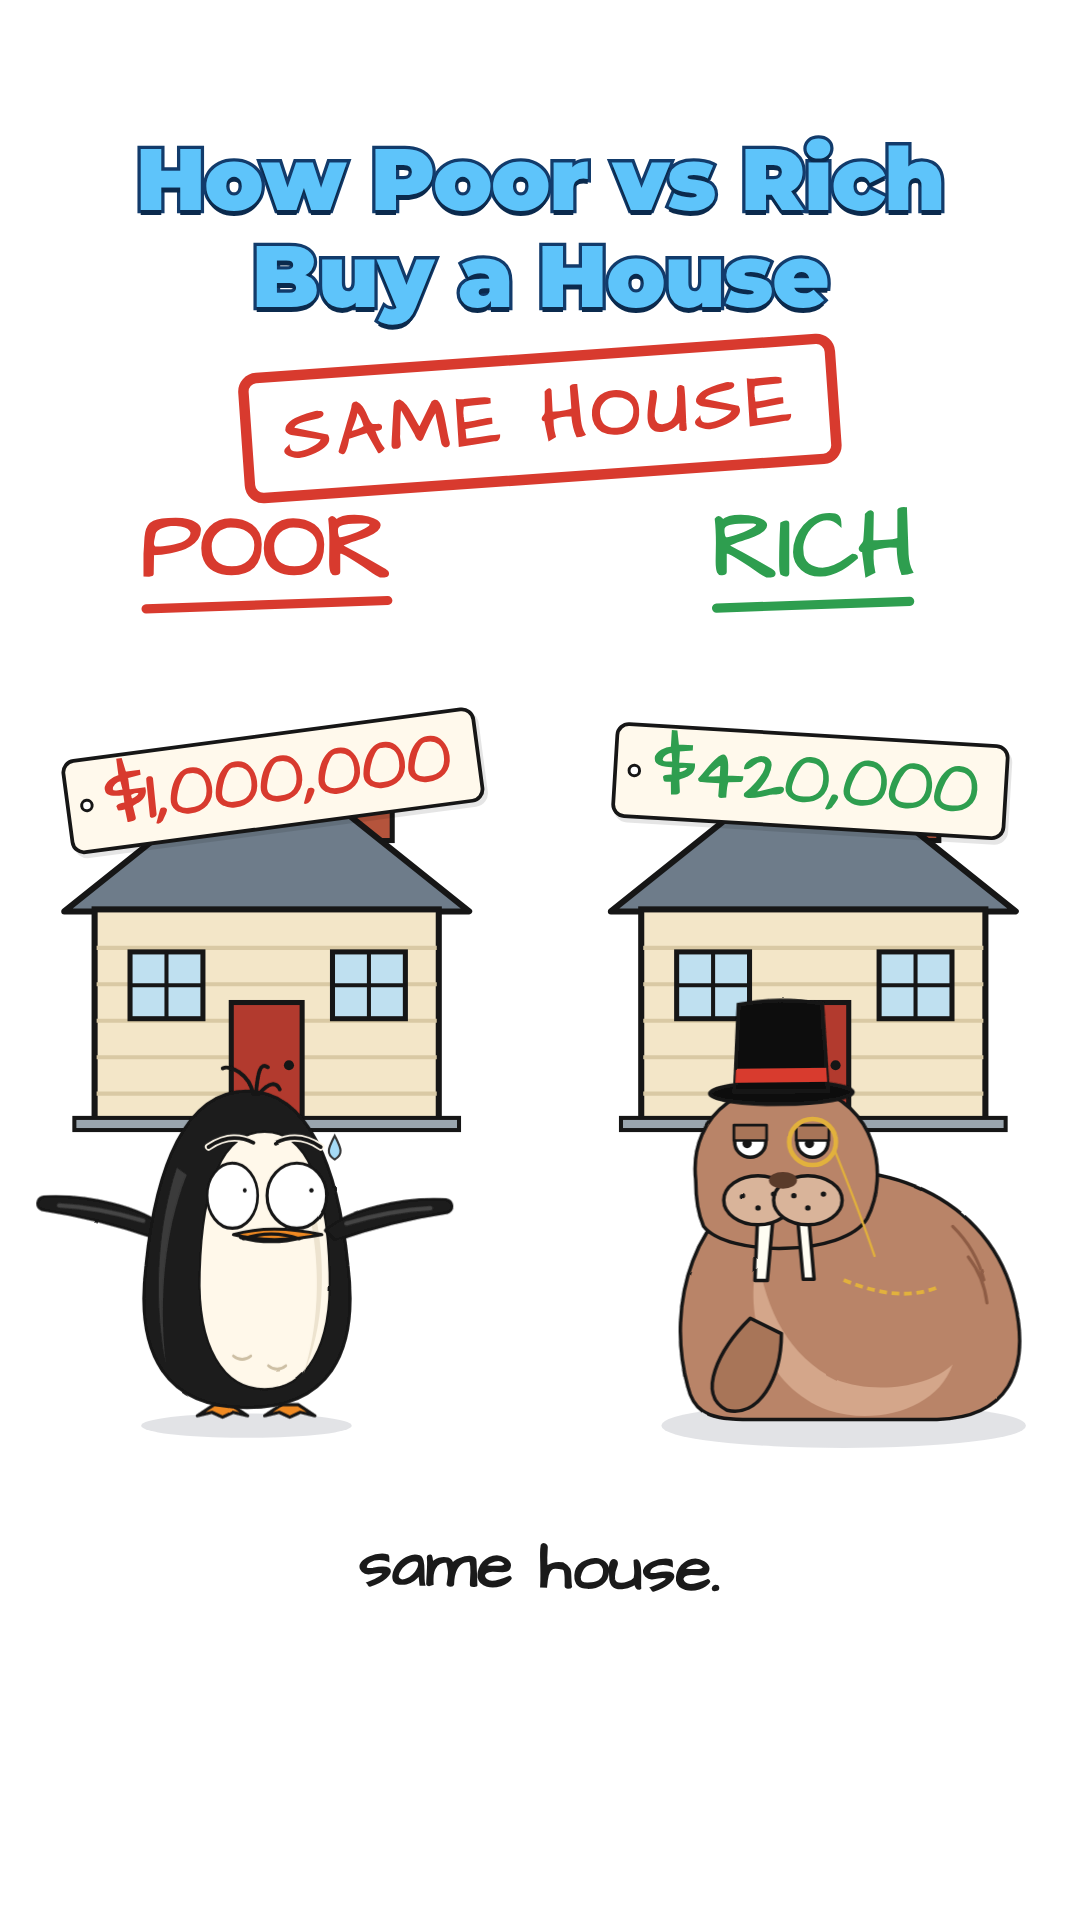
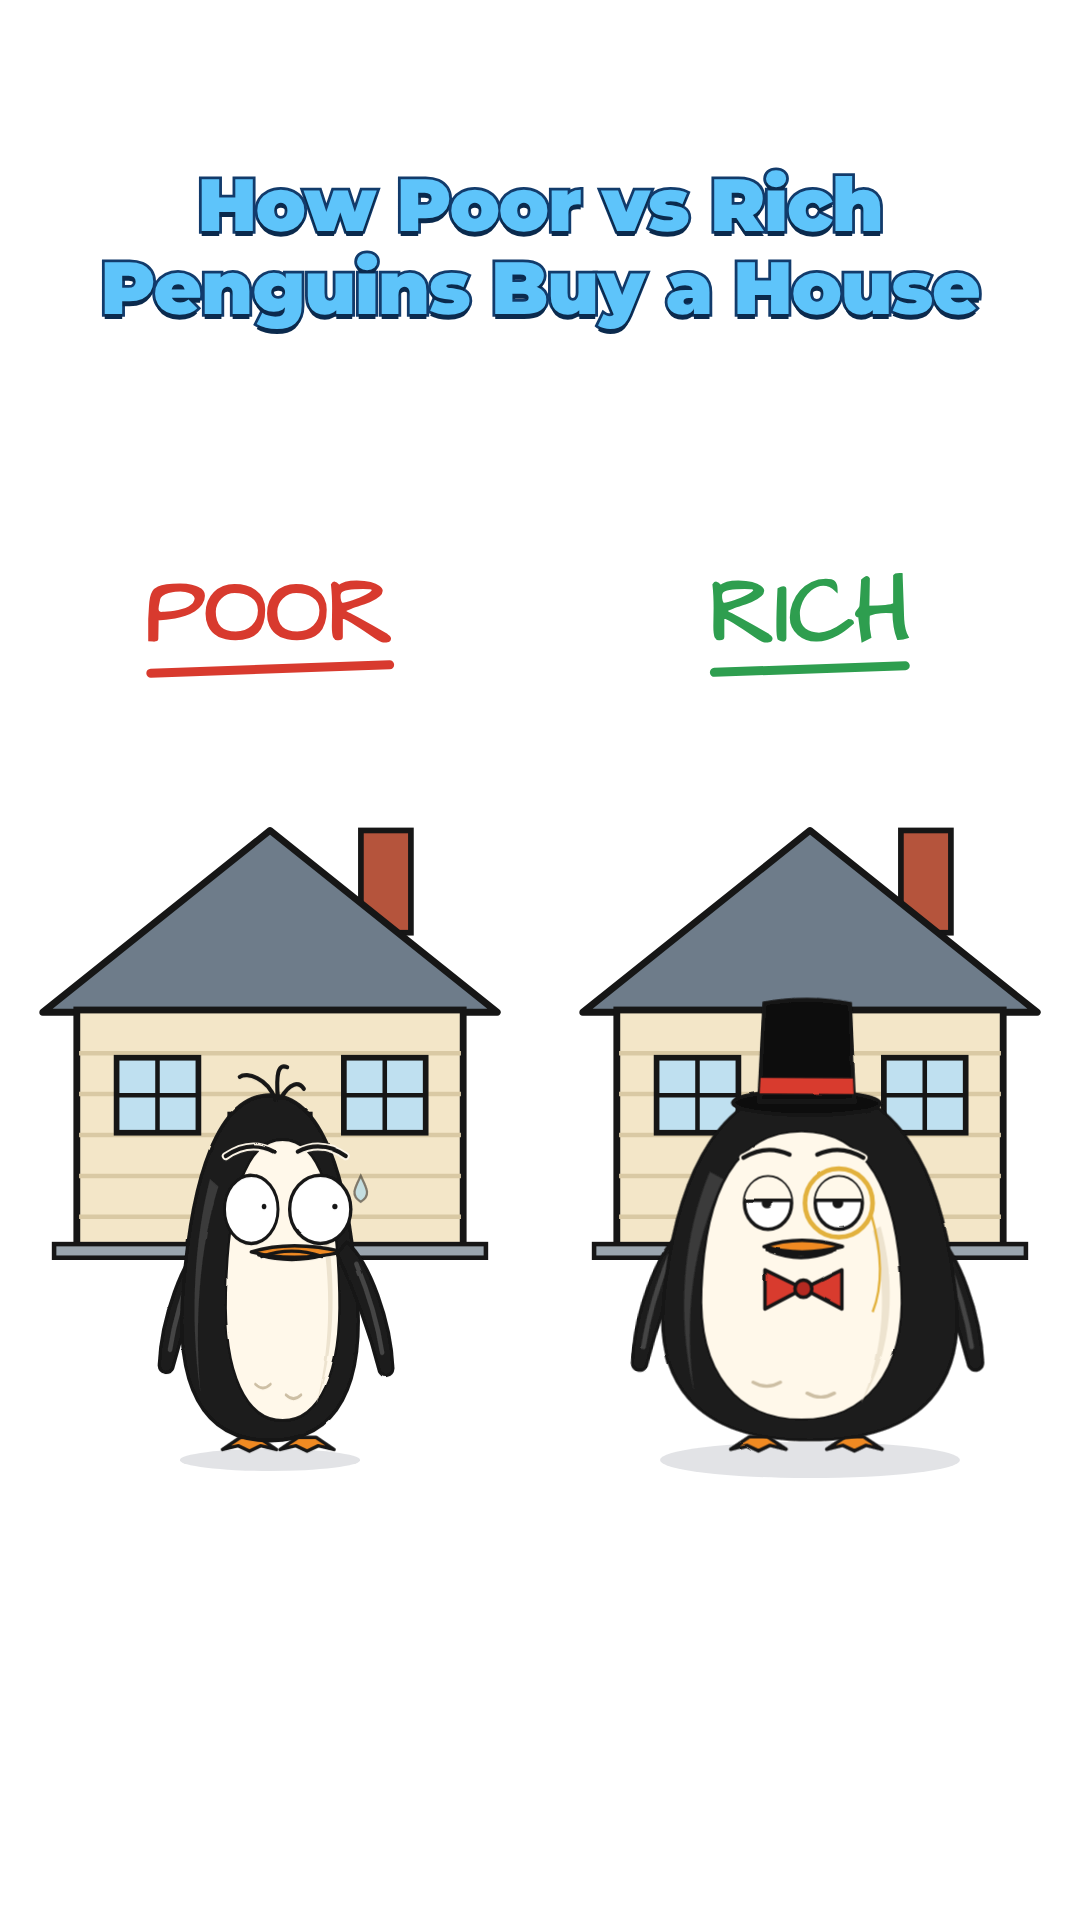
EP6 house: hook = poor vs rich penguin, houses, no prices (user)
Claude-Session: https://claude.ai/code/session_01C4hDa3fLLJhttDpbqhpiyZ

Changed region(s): [[0.0306, 0.0625, 0.9778, 0.7812], [0.3361, 0.8125, 0.6722, 0.8438]]

diff --git a/studio/src/videos/dougHouse.tsx b/studio/src/videos/dougHouse.tsx
@@ -1,17 +1,16 @@
-// EP6 "How Poor vs Rich Buy a House" — hook first (approval), full episode after. Line timings: studio/src/data/doug-house.json (temp until the user's VO).
+// EP6 "How Poor vs Rich Buy a House" — hook first (approval), full episode after. Temp timings in studio/src/data/doug-house.json until the hook line is approved + VO arrives.
 import React from 'react';
 import {AbsoluteFill, useCurrentFrame} from 'remotion';
 import {FPS, Fonts, HandFont} from '../base';
 import {INK, Penguin, onTwos} from '../penguin/rig';
-import {Walrus} from '../penguin/cast';
-import {HookTitle, PriceTag, Stamp} from '../penguin/world';
-import {cutFX} from '../penguin/acting';
-import {Captions, Sfx, beat} from '../penguin/edit';
+import {HookTitle} from '../penguin/world';
+import {Fx, cutFX} from '../penguin/acting';
+import {Sfx, beat} from '../penguin/edit';
 import TIM from '../data/doug-house.json';
 
 const P = (i: number) => TIM[i].start;
 export const DOUG_HOUSE_SECONDS = Math.ceil((TIM[TIM.length - 1].end + 0.8) * 30) / 30;
-const G = 1420;
+const G = 1460;
 const cl = (v: number, a = 0, b = 1) => Math.max(a, Math.min(b, v));
 const ease = (p: number) => 1 - Math.pow(1 - cl(p), 3);
 const RED = '#D83A2E', GREEN = '#2E9E4F';
@@ -29,47 +28,40 @@ const House = ({x, y, w = 440}: {x: number; y: number; w?: number}) =>
   </svg>;
 
 const Label = ({text, x, color}: {text: string; x: number; color: string}) =>
-  <div style={{position: 'absolute', left: x, top: 560, transform: 'translate(-50%,-50%)', textAlign: 'center', fontFamily: 'Architects Daughter', fontWeight: 700, fontSize: 92, color, lineHeight: 1}}>
+  <div style={{position: 'absolute', left: x, top: 620, transform: 'translate(-50%,-50%)', textAlign: 'center', fontFamily: 'Architects Daughter', fontWeight: 700, fontSize: 92, color, lineHeight: 1}}>
     {text}<div style={{height: 9, background: color, borderRadius: 5, marginTop: 6, transform: 'rotate(-2deg)'}} /></div>;
 
-const LARRY = P(1), SAME = P(2);
+const RICHT = P(1);
+// User hook (2026-10-19): poor penguin vs rich penguin, POOR / RICH labels, an American house behind each, NO prices.
 const Hook = ({t}: {t: number}) => {
-  const onLarry = t >= LARRY, same = t >= SAME;
+  const onRich = t >= RICHT;
   return <>
-    <HookTitle lines={['How Poor vs Rich', 'Buy a House']} at={-1} y={240} size={86} />
+    <HookTitle lines={['How Poor vs Rich', 'Penguins Buy a House']} at={-1} y={250} size={74} />
     <Label text="POOR" x={270} color={RED} />
     <Label text="RICH" x={810} color={GREEN} />
-    <House x={270} y={1130} />
-    <House x={810} y={1130} />
-    <PriceTag x={270} y={800} price="$1,000,000" at={0.35} rot={-6} size={0.74} />
-    <PriceTag x={810} y={800} price="$420,000" at={LARRY + 0.9} rot={5} size={0.74} color={GREEN} />
-    <Penguin id="doug" x={250} y={G} h={360} pose={{turn: onLarry ? 0.6 : 0.2, look: [onLarry ? 0.9 : 0, -0.4], brows: onLarry ? 'shock' : 'worried', eyeScale: onLarry ? 1.25 : 1, pupil: onLarry ? 0.45 : 1, sweat: true, flapL: onLarry ? 90 : 10, flapR: onLarry ? 90 : 10, beak: 'frown'}} />
-    <Walrus x={840} y={G} h={400} pose={{lids: 0.45, laugh: onLarry && !same ? 1 : 0, look: -0.5}} />
-    <Stamp text="SAME HOUSE" x={540} y={425} at={SAME} color={RED} size={70} rot={-4} />
+    <House x={270} y={1260} w={500} />
+    <House x={810} y={1260} w={500} />
+    <Penguin id="doug" x={270} y={G} h={390} build="thin" pose={{turn: onRich ? 0.5 : 0, look: [onRich ? 0.9 : 0, -0.2], brows: onRich ? 'shock' : 'worried', eyeScale: onRich ? 1.2 : 1, pupil: onRich ? 0.5 : 1, sweat: true, beak: 'frown'}} />
+    <Penguin id="rich" x={810} y={G} h={400} build="fat" outfit="rich" pose={{turn: -0.2, lids: 0.45, beak: 'smile', brows: 'happy'}} />
   </>;
 };
 
-const SHOTS: {at: number; set: (t: number) => React.ReactNode; fx_?: string}[] = [{at: 0, set: (t) => <Hook t={t} />}];
+const SHOTS: {at: number; set: (t: number) => React.ReactNode; fx_?: Fx}[] = [{at: 0, set: (t) => <Hook t={t} />}];
 
 export const DougHouse = () => {
   const frame = useCurrentFrame(), t = onTwos(frame), tc = frame / FPS;
   const sh = [...SHOTS].reverse().find((x) => tc >= x.at)!;
   // hook: push toward the side named (Doug's $1M house, then Larry's), release on "Same house."
-  const toL = ease((tc - 0.2) / 0.6) * (tc < LARRY ? 1 : 0), toR = ease((tc - LARRY) / 0.5) * (tc < SAME ? 1 : 0);
+  const toL = ease((tc - 0.2) / 0.6) * (tc < RICHT ? 1 : 0), toR = ease((tc - RICHT) / 0.5) * (tc < P(2) ? 1 : 0);
   const s = (1 + 0.08 * (toL + toR)) * beat(tc, TIM), fx = 540 - 150 * toL + 150 * toR, fy = 960 + 30 * (toL + toR);
   return <AbsoluteFill style={{background: '#fff', overflow: 'hidden'}}>
     <Fonts /><HandFont />
     <AbsoluteFill style={cutFX(tc, SHOTS.map((x) => ({at: x.at, fx: x.fx_})))}>
       <AbsoluteFill style={{transform: `translate(${540 - fx * s}px, ${960 - fy * s}px) scale(${s})`, transformOrigin: '0 0'}}>{sh.set(t)}</AbsoluteFill>
     </AbsoluteFill>
-    <Captions t={tc} phrases={TIM} />
     <Sfx at={0} name="user-ting" vol={0.5} />
-    <Sfx at={0.35} name="user-cash-register" vol={0.35} />
-    <Sfx at={1.1} name="user-boom" vol={0.45} />
-    <Sfx at={LARRY - 0.05} name="user-whoosh" vol={0.22} />
-    <Sfx at={LARRY + 0.3} name="walrus-laugh" vol={0.4} />
-    <Sfx at={LARRY + 0.9} name="user-money" vol={0.35} />
-    <Sfx at={SAME} name="user-slap" vol={0.4} />
-    <Sfx at={SAME + 0.2} name="user-shock" vol={0.3} />
+    <Sfx at={0.3} name="user-aww" vol={0.3} />
+    <Sfx at={RICHT - 0.05} name="user-whoosh" vol={0.22} />
+    <Sfx at={RICHT + 0.2} name="user-wow" vol={0.3} />
   </AbsoluteFill>;
 };
